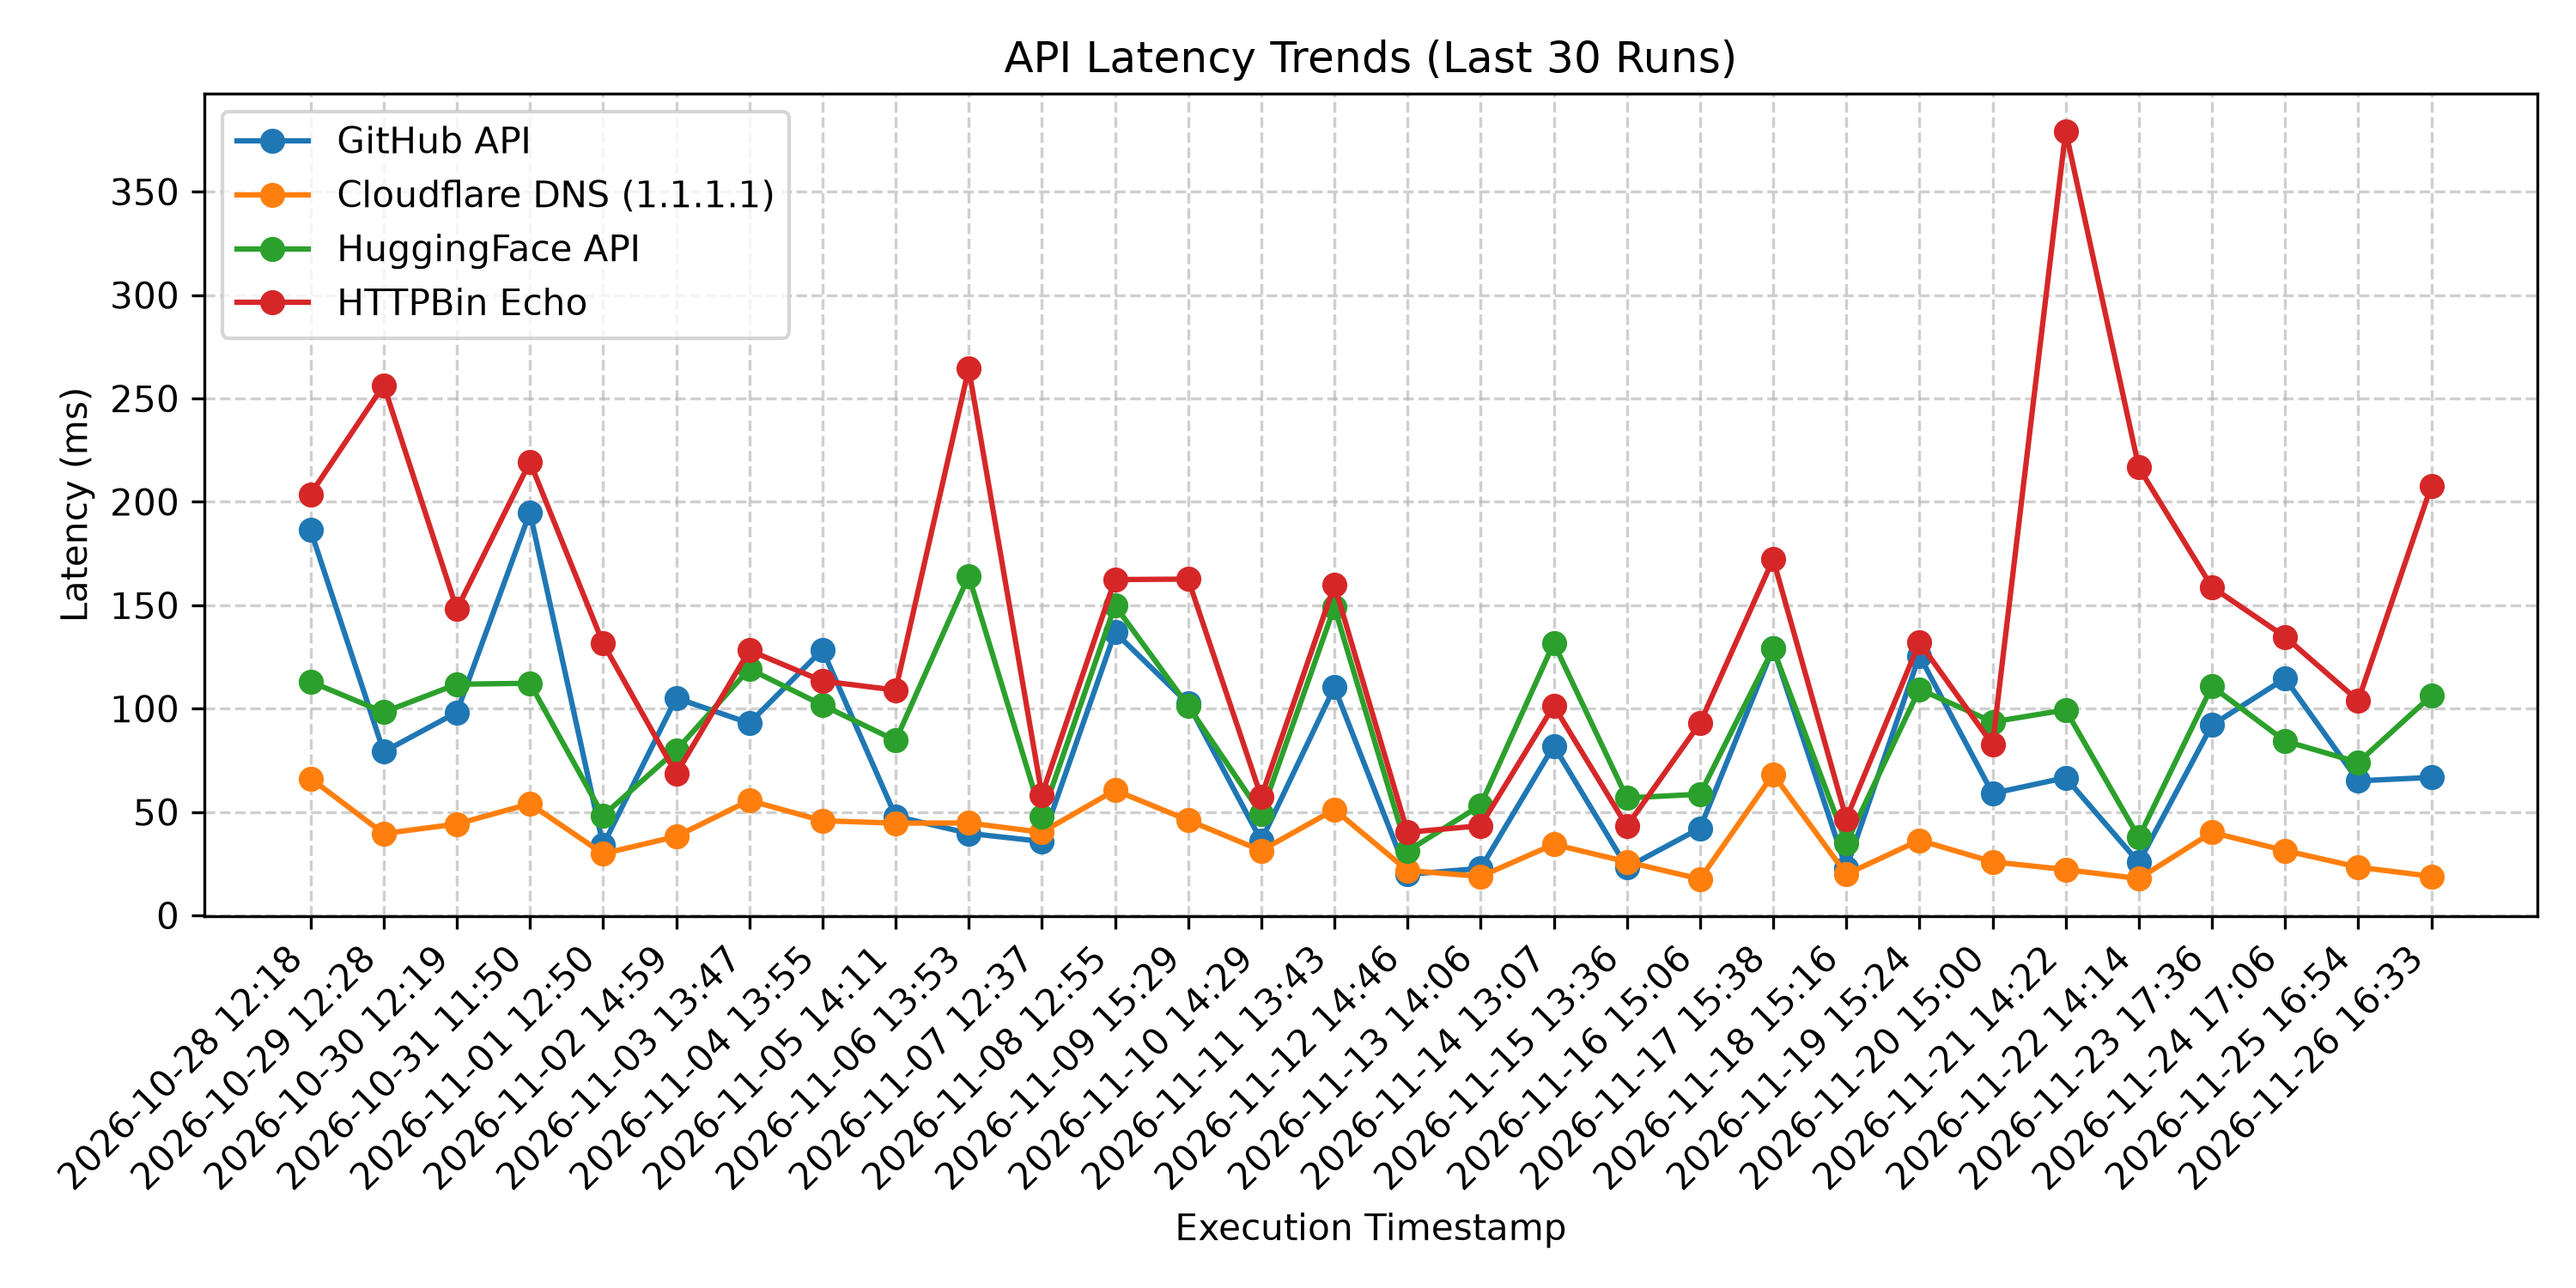
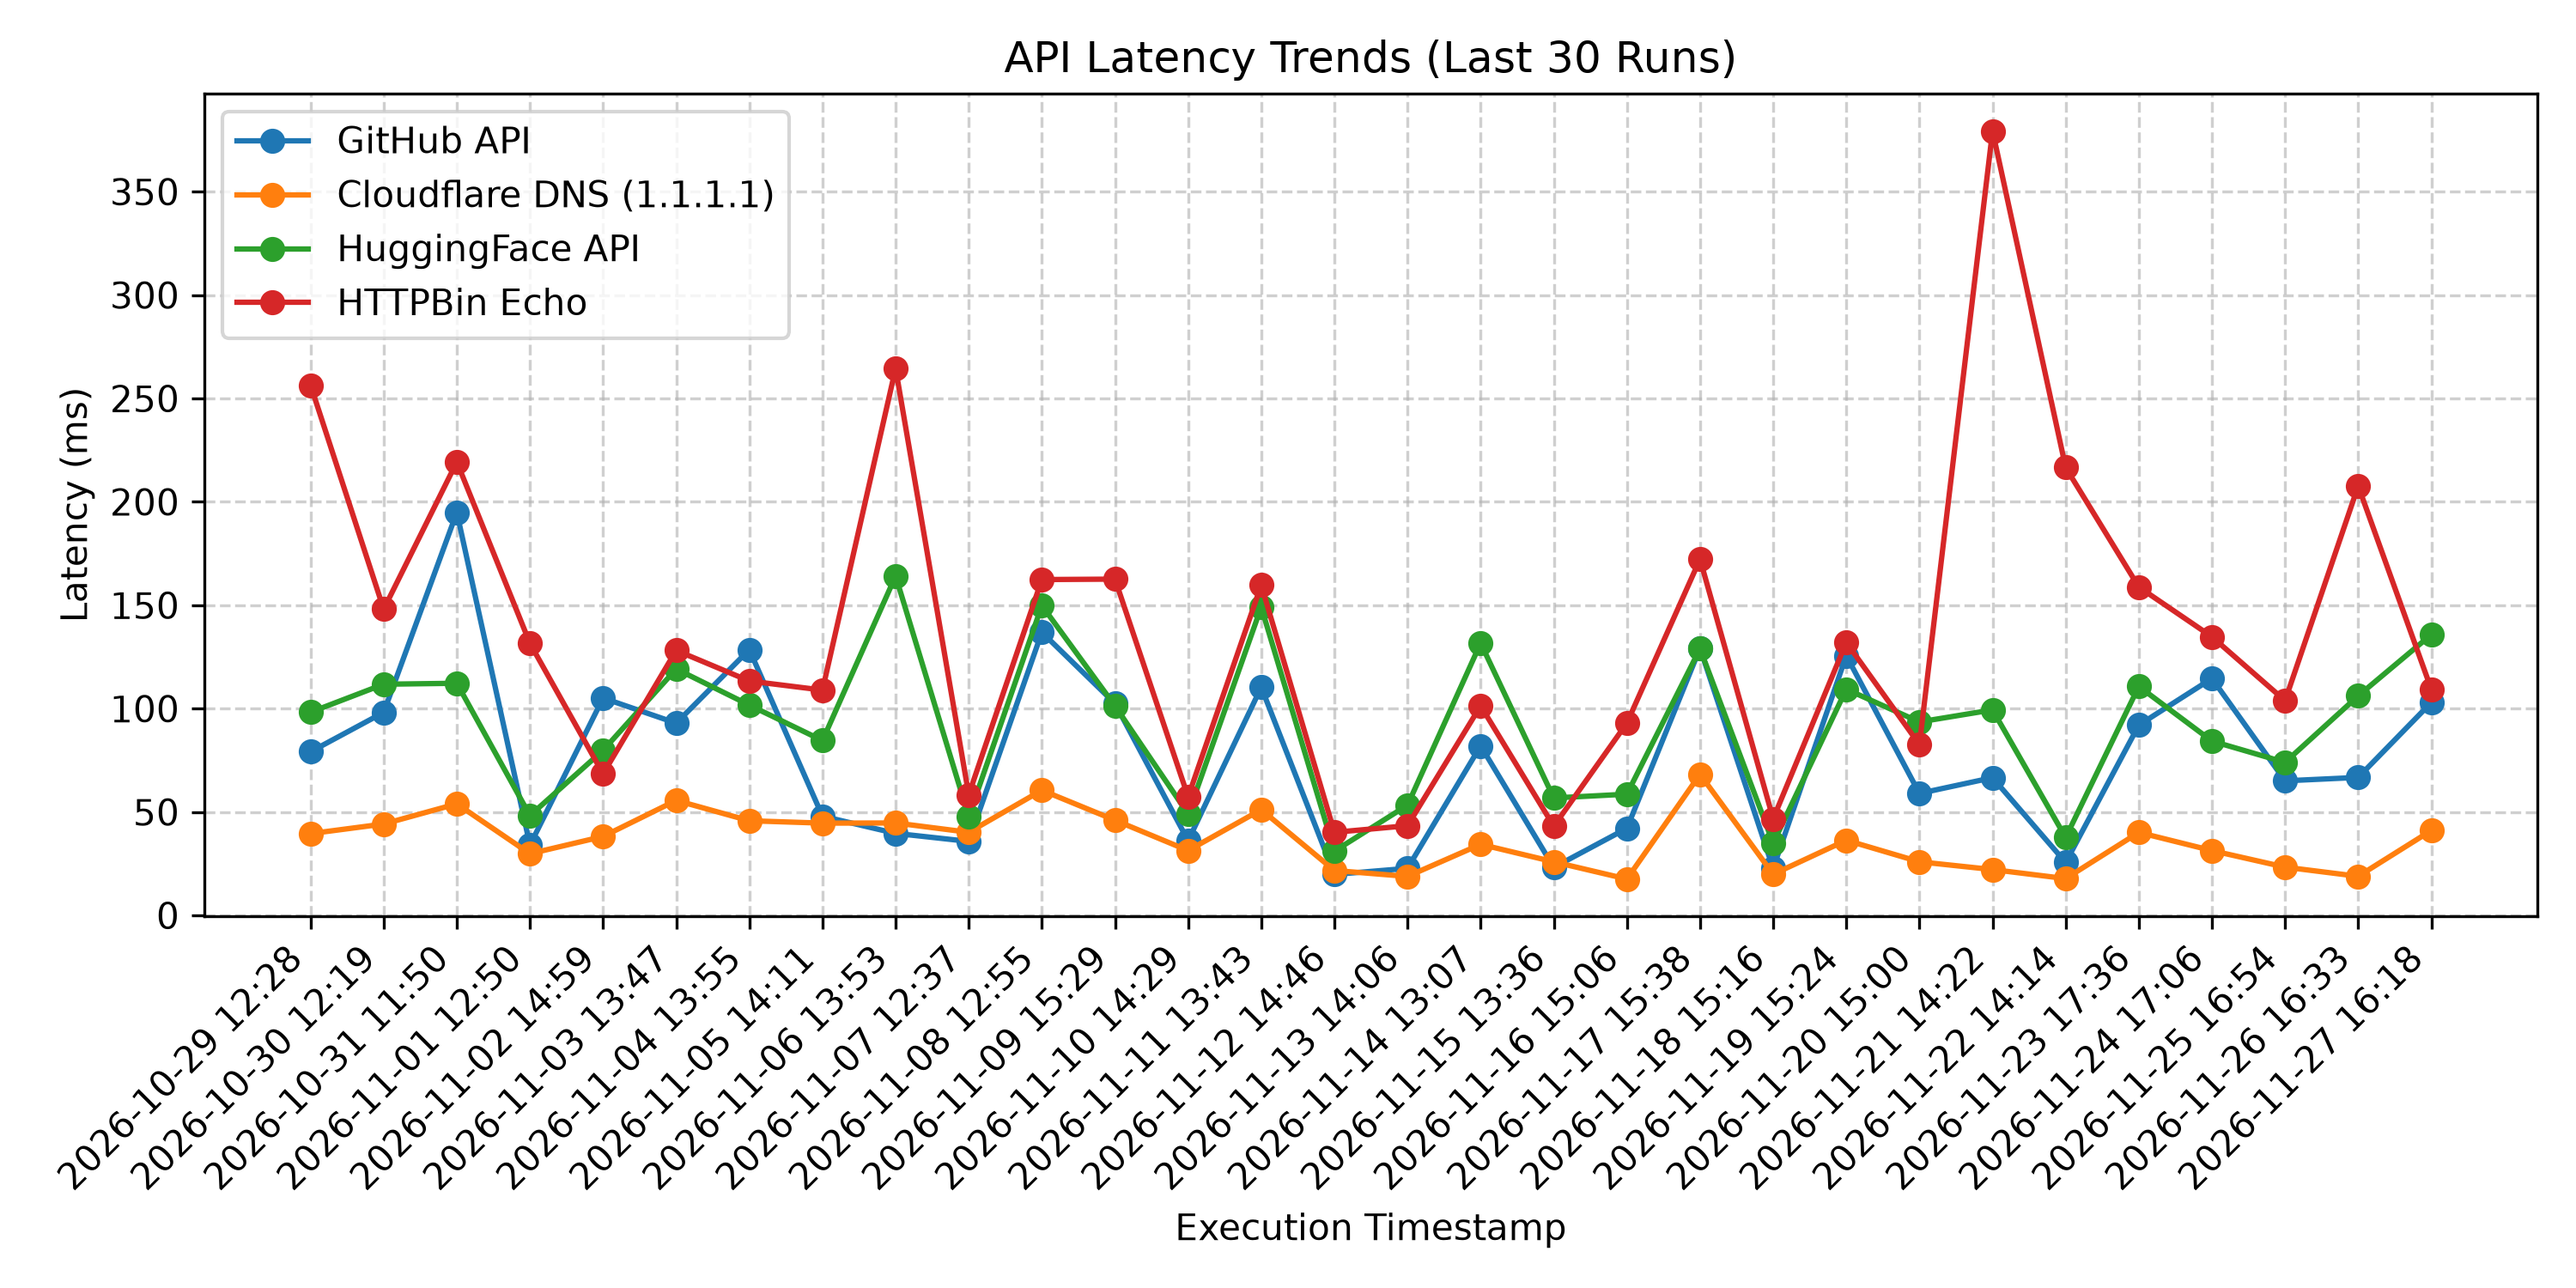
Automated update: API performance benchmarks & SLA metrics

diff --git a/README.md b/README.md
@@ -1,6 +1,6 @@
 # 🌐 Automated Cloud API Observability & Benchmark Suite
 
-*Automated test execution timestamp:* **2026-11-26 16:33:06 UTC**
+*Automated test execution timestamp:* **2026-11-27 16:18:56 UTC**
 
 An automated reliability and performance testing engine that monitors core tech infrastructure APIs, logs round-trip response latencies, tracks P95 response SLA degradation, and records data directly into Git.
 
@@ -8,13 +8,13 @@ An automated reliability and performance testing engine that monitors core tech 
 
 | Service | Status | Current Latency | Avg Latency | P95 Latency | SLA Uptime |
 | :--- | :--- | :--- | :--- | :--- | :--- |
-| **GitHub API** | `200 OK` | `66.73 ms` | `91.86 ms` | `182.24 ms` | `97.83%` |
-| **Cloudflare DNS (1.1.1.1)** | `200 OK` | `18.9 ms` | `41.15 ms` | `67.74 ms` | `97.83%` |
-| **HuggingFace API** | `200 OK` | `106.17 ms` | `95.95 ms` | `147.89 ms` | `100.0%` |
-| **HTTPBin Echo** | `200 OK` | `207.67 ms` | `210.07 ms` | `350.65 ms` | `100.0%` |
+| **GitHub API** | `200 OK` | `102.99 ms` | `92.1 ms` | `182.04 ms` | `97.87%` |
+| **Cloudflare DNS (1.1.1.1)** | `200 OK` | `41.07 ms` | `41.15 ms` | `67.64 ms` | `97.87%` |
+| **HuggingFace API** | `200 OK` | `135.82 ms` | `96.8 ms` | `147.64 ms` | `100.0%` |
+| **HTTPBin Echo** | `200 OK` | `109.37 ms` | `207.92 ms` | `344.91 ms` | `100.0%` |
 
 ### 📊 Historical Latency Trend
-![Latency Trends](latency_trend.png?v=1795710787)
+![Latency Trends](latency_trend.png?v=1795796337)
 
 ---
 
